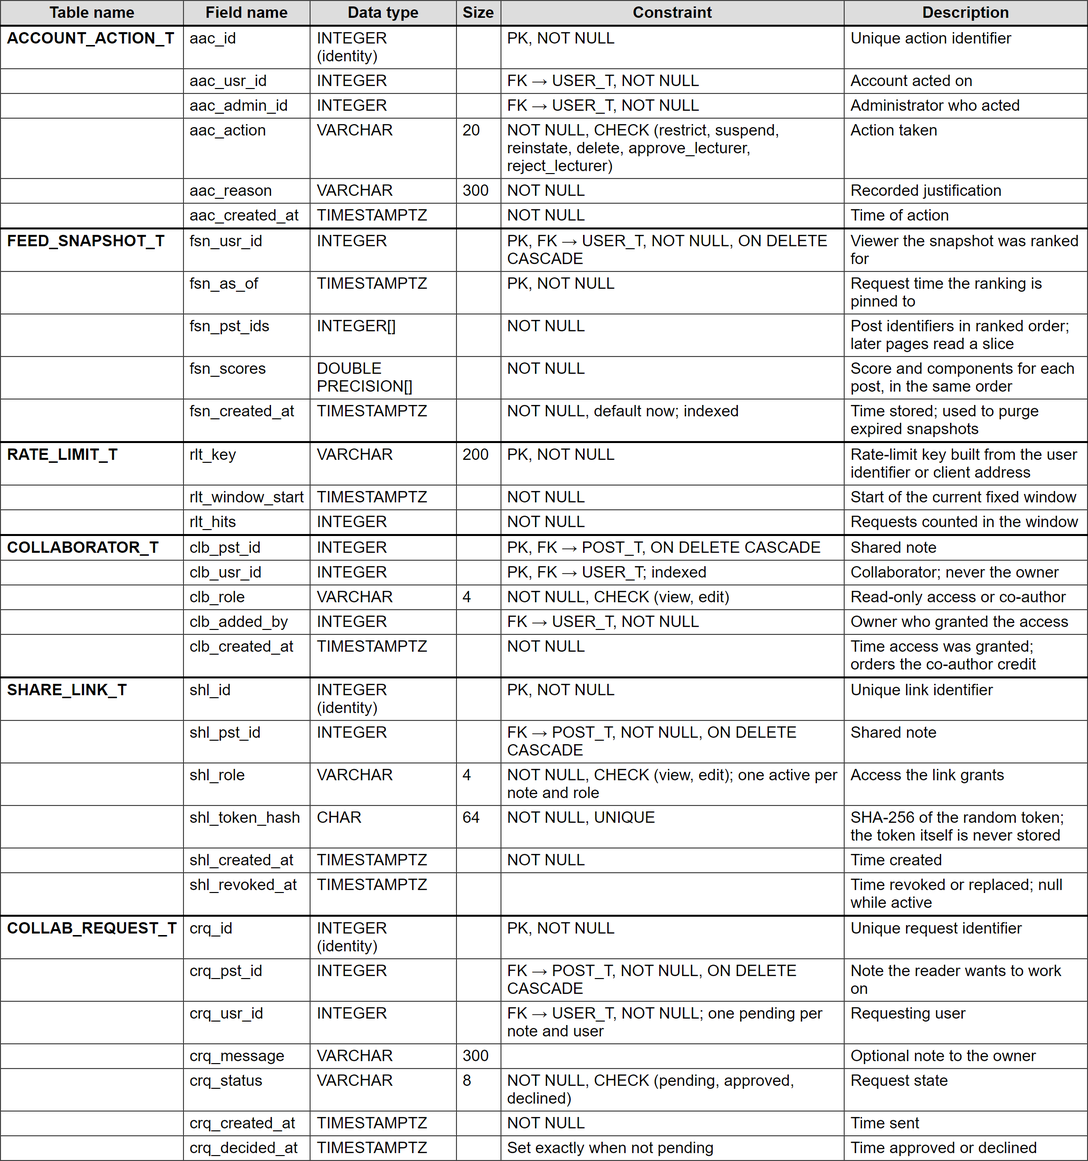
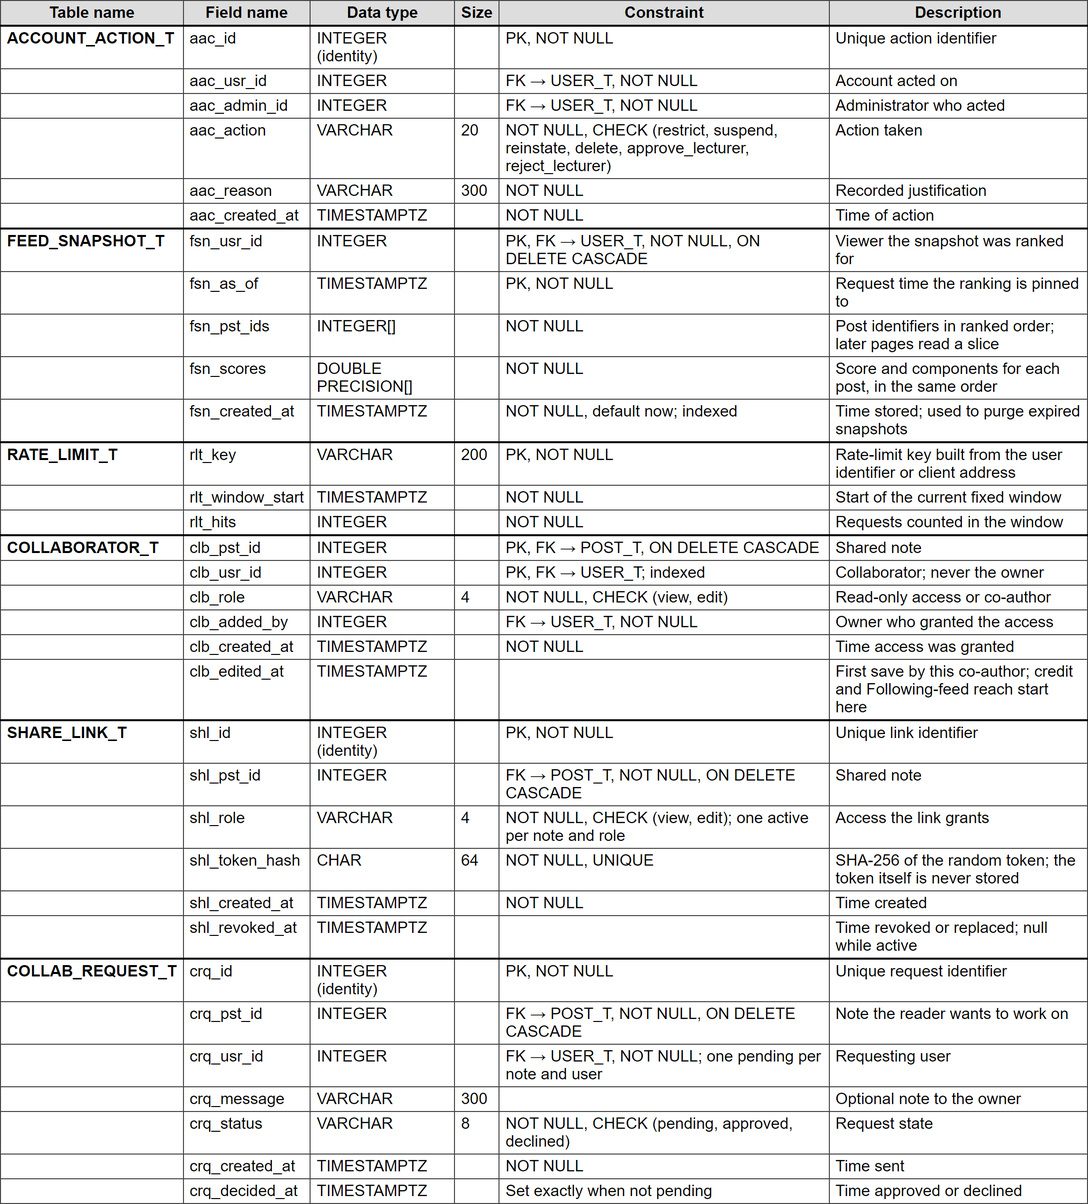
Document the R30 review fixes in D46 and Chapter 4
D46 records credit after the first edit, co-authors as authors for like and verify, share-token log redaction, myRole and the smaller fixes. Adds clb_edited_at to the schema table and ERD source, COL-TC19 to COL-TC24 and OPS-TC5, updates COL-TC15, 17 and 18, regenerates the schema images and rebuilds CHAPTER4.md.

diff --git a/docs/chapter4/CHAPTER4.md b/docs/chapter4/CHAPTER4.md
@@ -432,7 +432,7 @@
 
 	Two entities were added after the first design to meet the scale and reliability targets, and a third replaced an earlier one. FOLLOW_T replaced the original CONTACT_T, which stored a symmetric pair created by an accepted message request. A directed follow with a composite primary key and a check that a user cannot follow themselves is a single relationship from which friendship is derived at query time as a pair of follows in opposite directions, so there is no second table that could drift out of step; the migration that introduced it copied each existing contact into both directions. FEED_SNAPSHOT_T stores, for one viewer and one request time, the ranked list of post identifiers and their scores as arrays. The first page of the For You feed ranks the candidates once and writes this row, and later pages read a slice of it, so that a viewer paging through the feed sees a stable order and the ranking work is not repeated for every page; rows are short-lived and are deleted when they expire. RATE_LIMIT_T is an operational table with no foreign key to any other entity: it holds one counter per rate-limit key (a user identifier or an address) and time window, so that the request limits are enforced consistently across several server instances. It is therefore drawn in Figure 4.13 as a standalone entity.
 
-	Three entities support shared notes (R30), which were added after the first design. COLLABORATOR_T grants a user view or edit access to one note, with a composite primary key so that a user holds one role per note; the owner is never a row, because ownership is already recorded in pst_usr_id. SHARE_LINK_T stores the view and edit links an owner hands out. Only the SHA-256 hash of each random token is kept, so a copy of the database cannot be used to open shared notes, and a partial unique index allows at most one active link per note and role, which makes regenerating a link revoke the old one. COLLAB_REQUEST_T records a reader's request to collaborate until the owner approves or declines it, with a partial unique index that permits one pending request per note and user. POST_T gained three columns for the same feature: pst_content_edited_at records the last change to the title or slides of a published note, and a lecturer Super Like older than it no longer counts towards V until the lecturer confirms it again, while pst_lock_usr_id and pst_lock_expires_at hold a short soft lock so that only one collaborator edits at a time.
+	Three entities support shared notes (R30), which were added after the first design. COLLABORATOR_T grants a user view or edit access to one note, with a composite primary key so that a user holds one role per note; the owner is never a row, because ownership is already recorded in pst_usr_id. An invited editor is credited on the note, and the note reaches their followers, only once clb_edited_at records their first save, so an owner cannot attach someone's name to a note they never worked on. SHARE_LINK_T stores the view and edit links an owner hands out. Only the SHA-256 hash of each random token is kept, so a copy of the database cannot be used to open shared notes, and a partial unique index allows at most one active link per note and role, which makes regenerating a link revoke the old one. COLLAB_REQUEST_T records a reader's request to collaborate until the owner approves or declines it, with a partial unique index that permits one pending request per note and user. POST_T gained three columns for the same feature: pst_content_edited_at records the last change to the title or slides of a published note, and a lecturer Super Like older than it no longer counts towards V until the lecturer confirms it again, while pst_lock_usr_id and pst_lock_expires_at hold a short soft lock so that only one collaborator edits at a time.
 
 ## 4.3.2 Database Schema
 
@@ -564,7 +564,8 @@ The schema table is also rendered as high-resolution images for the report: `dia
 | | clb_usr_id | INTEGER | | PK, FK → USER_T; indexed | Collaborator; never the owner |
 | | clb_role | VARCHAR | 4 | NOT NULL, CHECK (view, edit) | Read-only access or co-author |
 | | clb_added_by | INTEGER | | FK → USER_T, NOT NULL | Owner who granted the access |
-| | clb_created_at | TIMESTAMPTZ | | NOT NULL | Time access was granted; orders the co-author credit |
+| | clb_created_at | TIMESTAMPTZ | | NOT NULL | Time access was granted |
+| | clb_edited_at | TIMESTAMPTZ | | | First save by this co-author; credit and Following-feed reach start here |
 | SHARE_LINK_T | shl_id | INTEGER (identity) | | PK, NOT NULL | Unique link identifier |
 | | shl_pst_id | INTEGER | | FK → POST_T, NOT NULL, ON DELETE CASCADE | Shared note |
 | | shl_role | VARCHAR | 4 | NOT NULL, CHECK (view, edit); one active per note and role | Access the link grants |
@@ -1014,10 +1015,16 @@ The schema table is also rendered as high-resolution images for the report: `dia
 | COL-TC12 | Requests to collaborate | stranger requests with a message, then again; owner and editor request; 301-character message; viewer requests; stranger requests on a draft; owner approves, declines, re-decides, sends "maybe" and an unknown id | 201, 409, 400, 409, 400, 201, 404; access lists both pending; approve gives role edit; re-decide 409; bad decision 400; decline 200; unknown 404; no pending left | | |
 | COL-TC13 | Shared with me list | editor of one note and viewer of another; a stranger; a guest | Both notes with roles edit and view and the owner; stranger empty list; guest 401 | | |
 | COL-TC14 | Soft lock and expiry | editor locks and renews; owner locks and PUTs; editor PUTs; viewer, stranger, guest lock; lock expired by SQL; releases; editor removed while holding it | 200, 200; owner 423 with lockedBy Editor and PUT 423; editor PUT 200; 403, 404, 401; owner takes the expired lock; release by a non-holder has no effect; removing the editor frees the lock | | |
-| COL-TC15 | V removed by a slide edit until re-confirmed | published note Super Liked by an approved lecturer; editor replaces the slides; lecturer POSTs verify again | After the edit verified false, verifiedBy null, editedSinceVerification true and V = 0 in the ranking candidates; after re-confirm 200, verified true and V = 1 | | |
+| COL-TC15 | V removed by a slide edit until re-confirmed | published note Super Liked by an approved lecturer; editor replaces the slides; lecturer POSTs verify again | After the edit verified false, verifiedBy null, editedSinceVerification true and V = 0 in the ranking candidates; after re-confirm 200 with the new remark, verified true and V = 1 | | |
 | COL-TC16 | Hashtag edits keep V; publish time never moves | verified published note: hashtag-only edit, then a title edit; a draft edited by its editor | Hashtags changed and still verified; title edit removes V; pst_published_at unchanged; the draft keeps null pst_content_edited_at and pst_published_at | | |
-| COL-TC17 | Following feed includes co-authored notes | a follower of the editor; a follower of a view collaborator; a contacts-only note co-authored by the followed editor, before and after the follower befriends its owner | The editor's follower sees the note; the viewer's follower sees nothing; the contacts-only note appears only after the friendship | | |
-| COL-TC18 | Co-authors credited in note payloads | published note with an editor and a viewer; GET as a guest and in the feed; editor then suspended | coauthors lists only the editor (id, display name) in detail and feed; empty after the suspension | | |
+| COL-TC17 | Following feed reaches co-authors' followers after their first edit | a follower of an invited editor, before and after the editor saves; a follower of a view collaborator; the fan also follows the owner; a contacts-only note co-authored by a followed editor, before and after the fan befriends its owner | Nothing before the edit, the note after it; the viewer's follower sees nothing; the note is listed once; the contacts-only note appears only after the friendship | | |
+| COL-TC18 | Co-author credit and the viewer's role | published note with an invited editor and a viewer; GET as a guest before and after the editor's first save, in the feed, as each user; editor then suspended | coauthors empty before the save, then only the editor (id, display name) in detail and feed; myRole owner, edit, view, null, null in the detail and absent from the feed; empty after the suspension | | |
+| COL-TC19 | Co-author cannot like or Super Like the note | an approved lecturer who is an edit collaborator likes and verifies the note | 400 "You cannot like your own note"; 409 "Cannot verify own note" | | |
+| COL-TC20 | Request id from another note (IDOR) | owner of note A decides a pending request made on note B | 404; the request stays pending and A gains no collaborator | | |
+| COL-TC21 | V kept without a content change | verified note with formatted slides, a co-author holding the lock; then a hashtag-only save that resends the unchanged slides | verified true and editedSinceVerification false before and after; pst_content_edited_at stays null | | |
+| COL-TC22 | Downgrade frees the lock; role re-checked in the save | editor holds the lock and is changed to view; replaceNote called for the former editor and a stranger | Owner can take the lock; both saves return forbidden | | |
+| COL-TC23 | Restricted author blocks co-author edits | author restricted; editor PUT and lock; stranger joins an edit link; editor GET; stranger GET of the link | 403, 403, 403; reading 200 and 200 | | |
+| COL-TC24 | Concurrent link regeneration | five simultaneous POST /links {role: view} | All 201; exactly one active link | | |
 
 *Table 4.34: Operations module test cases (OPS). OPS covers non-functional checks (health, request tracing, log redaction), so it has fewer than 10 cases by design.*
 
@@ -1027,6 +1034,7 @@ The schema table is also rendered as high-resolution images for the report: `dia
 | OPS-TC2 | Health check with the database unreachable | GET /api/health while the database query fails | 503 with status degraded, db down | | |
 | OPS-TC3 | Request id reused or replaced | no X-Request-Id; "abc-123"; "bad id<script>" | Response carries a generated UUID; "abc-123" echoed; a new UUID instead of the unsafe value | | |
 | OPS-TC4 | Logger redaction options hide set-cookie and password fields | a pino logger built with the app's redaction options logs a response with a set-cookie parp_token header and a body with a password | Log output shows [redacted] and contains neither the parp_token value nor the password | | |
+| OPS-TC5 | Share-link tokens kept out of the request log | paths /api/share/AbC_-123?x=1, /api/notes/5?cursor=abc, no URL | /api/share/[token]; /api/notes/5; undefined | | |
 
 *Table 4.35: Client module test cases (CLI). CLI covers browser-side logic (API wrapper, auth state, route guards, fetch hook); the tests run against mocked fetch, so no server is needed.*
 

diff --git a/docs/chapter4/4.5_test_cases.md b/docs/chapter4/4.5_test_cases.md
@@ -255,10 +255,16 @@
 | COL-TC12 | Requests to collaborate | stranger requests with a message, then again; owner and editor request; 301-character message; viewer requests; stranger requests on a draft; owner approves, declines, re-decides, sends "maybe" and an unknown id | 201, 409, 400, 409, 400, 201, 404; access lists both pending; approve gives role edit; re-decide 409; bad decision 400; decline 200; unknown 404; no pending left | | |
 | COL-TC13 | Shared with me list | editor of one note and viewer of another; a stranger; a guest | Both notes with roles edit and view and the owner; stranger empty list; guest 401 | | |
 | COL-TC14 | Soft lock and expiry | editor locks and renews; owner locks and PUTs; editor PUTs; viewer, stranger, guest lock; lock expired by SQL; releases; editor removed while holding it | 200, 200; owner 423 with lockedBy Editor and PUT 423; editor PUT 200; 403, 404, 401; owner takes the expired lock; release by a non-holder has no effect; removing the editor frees the lock | | |
-| COL-TC15 | V removed by a slide edit until re-confirmed | published note Super Liked by an approved lecturer; editor replaces the slides; lecturer POSTs verify again | After the edit verified false, verifiedBy null, editedSinceVerification true and V = 0 in the ranking candidates; after re-confirm 200, verified true and V = 1 | | |
+| COL-TC15 | V removed by a slide edit until re-confirmed | published note Super Liked by an approved lecturer; editor replaces the slides; lecturer POSTs verify again | After the edit verified false, verifiedBy null, editedSinceVerification true and V = 0 in the ranking candidates; after re-confirm 200 with the new remark, verified true and V = 1 | | |
 | COL-TC16 | Hashtag edits keep V; publish time never moves | verified published note: hashtag-only edit, then a title edit; a draft edited by its editor | Hashtags changed and still verified; title edit removes V; pst_published_at unchanged; the draft keeps null pst_content_edited_at and pst_published_at | | |
-| COL-TC17 | Following feed includes co-authored notes | a follower of the editor; a follower of a view collaborator; a contacts-only note co-authored by the followed editor, before and after the follower befriends its owner | The editor's follower sees the note; the viewer's follower sees nothing; the contacts-only note appears only after the friendship | | |
-| COL-TC18 | Co-authors credited in note payloads | published note with an editor and a viewer; GET as a guest and in the feed; editor then suspended | coauthors lists only the editor (id, display name) in detail and feed; empty after the suspension | | |
+| COL-TC17 | Following feed reaches co-authors' followers after their first edit | a follower of an invited editor, before and after the editor saves; a follower of a view collaborator; the fan also follows the owner; a contacts-only note co-authored by a followed editor, before and after the fan befriends its owner | Nothing before the edit, the note after it; the viewer's follower sees nothing; the note is listed once; the contacts-only note appears only after the friendship | | |
+| COL-TC18 | Co-author credit and the viewer's role | published note with an invited editor and a viewer; GET as a guest before and after the editor's first save, in the feed, as each user; editor then suspended | coauthors empty before the save, then only the editor (id, display name) in detail and feed; myRole owner, edit, view, null, null in the detail and absent from the feed; empty after the suspension | | |
+| COL-TC19 | Co-author cannot like or Super Like the note | an approved lecturer who is an edit collaborator likes and verifies the note | 400 "You cannot like your own note"; 409 "Cannot verify own note" | | |
+| COL-TC20 | Request id from another note (IDOR) | owner of note A decides a pending request made on note B | 404; the request stays pending and A gains no collaborator | | |
+| COL-TC21 | V kept without a content change | verified note with formatted slides, a co-author holding the lock; then a hashtag-only save that resends the unchanged slides | verified true and editedSinceVerification false before and after; pst_content_edited_at stays null | | |
+| COL-TC22 | Downgrade frees the lock; role re-checked in the save | editor holds the lock and is changed to view; replaceNote called for the former editor and a stranger | Owner can take the lock; both saves return forbidden | | |
+| COL-TC23 | Restricted author blocks co-author edits | author restricted; editor PUT and lock; stranger joins an edit link; editor GET; stranger GET of the link | 403, 403, 403; reading 200 and 200 | | |
+| COL-TC24 | Concurrent link regeneration | five simultaneous POST /links {role: view} | All 201; exactly one active link | | |
 
 *Table 4.x: Operations module test cases (OPS). OPS covers non-functional checks (health, request tracing, log redaction), so it has fewer than 10 cases by design.*
 
@@ -268,6 +274,7 @@
 | OPS-TC2 | Health check with the database unreachable | GET /api/health while the database query fails | 503 with status degraded, db down | | |
 | OPS-TC3 | Request id reused or replaced | no X-Request-Id; "abc-123"; "bad id<script>" | Response carries a generated UUID; "abc-123" echoed; a new UUID instead of the unsafe value | | |
 | OPS-TC4 | Logger redaction options hide set-cookie and password fields | a pino logger built with the app's redaction options logs a response with a set-cookie parp_token header and a body with a password | Log output shows [redacted] and contains neither the parp_token value nor the password | | |
+| OPS-TC5 | Share-link tokens kept out of the request log | paths /api/share/AbC_-123?x=1, /api/notes/5?cursor=abc, no URL | /api/share/[token]; /api/notes/5; undefined | | |
 
 *Table 4.x: Client module test cases (CLI). CLI covers browser-side logic (API wrapper, auth state, route guards, fetch hook); the tests run against mocked fetch, so no server is needed.*
 

diff --git a/docs/chapter4/4.3_database_design.md b/docs/chapter4/4.3_database_design.md
@@ -14,7 +14,7 @@
 
 	Two entities were added after the first design to meet the scale and reliability targets, and a third replaced an earlier one. FOLLOW_T replaced the original CONTACT_T, which stored a symmetric pair created by an accepted message request. A directed follow with a composite primary key and a check that a user cannot follow themselves is a single relationship from which friendship is derived at query time as a pair of follows in opposite directions, so there is no second table that could drift out of step; the migration that introduced it copied each existing contact into both directions. FEED_SNAPSHOT_T stores, for one viewer and one request time, the ranked list of post identifiers and their scores as arrays. The first page of the For You feed ranks the candidates once and writes this row, and later pages read a slice of it, so that a viewer paging through the feed sees a stable order and the ranking work is not repeated for every page; rows are short-lived and are deleted when they expire. RATE_LIMIT_T is an operational table with no foreign key to any other entity: it holds one counter per rate-limit key (a user identifier or an address) and time window, so that the request limits are enforced consistently across several server instances. It is therefore drawn in Figure 4.x as a standalone entity.
 
-	Three entities support shared notes (R30), which were added after the first design. COLLABORATOR_T grants a user view or edit access to one note, with a composite primary key so that a user holds one role per note; the owner is never a row, because ownership is already recorded in pst_usr_id. SHARE_LINK_T stores the view and edit links an owner hands out. Only the SHA-256 hash of each random token is kept, so a copy of the database cannot be used to open shared notes, and a partial unique index allows at most one active link per note and role, which makes regenerating a link revoke the old one. COLLAB_REQUEST_T records a reader's request to collaborate until the owner approves or declines it, with a partial unique index that permits one pending request per note and user. POST_T gained three columns for the same feature: pst_content_edited_at records the last change to the title or slides of a published note, and a lecturer Super Like older than it no longer counts towards V until the lecturer confirms it again, while pst_lock_usr_id and pst_lock_expires_at hold a short soft lock so that only one collaborator edits at a time.
+	Three entities support shared notes (R30), which were added after the first design. COLLABORATOR_T grants a user view or edit access to one note, with a composite primary key so that a user holds one role per note; the owner is never a row, because ownership is already recorded in pst_usr_id. An invited editor is credited on the note, and the note reaches their followers, only once clb_edited_at records their first save, so an owner cannot attach someone's name to a note they never worked on. SHARE_LINK_T stores the view and edit links an owner hands out. Only the SHA-256 hash of each random token is kept, so a copy of the database cannot be used to open shared notes, and a partial unique index allows at most one active link per note and role, which makes regenerating a link revoke the old one. COLLAB_REQUEST_T records a reader's request to collaborate until the owner approves or declines it, with a partial unique index that permits one pending request per note and user. POST_T gained three columns for the same feature: pst_content_edited_at records the last change to the title or slides of a published note, and a lecturer Super Like older than it no longer counts towards V until the lecturer confirms it again, while pst_lock_usr_id and pst_lock_expires_at hold a short soft lock so that only one collaborator edits at a time.
 
 ## 4.3.2 Database Schema
 
@@ -146,7 +146,8 @@ The schema table is also rendered as high-resolution images for the report: `dia
 | | clb_usr_id | INTEGER | | PK, FK → USER_T; indexed | Collaborator; never the owner |
 | | clb_role | VARCHAR | 4 | NOT NULL, CHECK (view, edit) | Read-only access or co-author |
 | | clb_added_by | INTEGER | | FK → USER_T, NOT NULL | Owner who granted the access |
-| | clb_created_at | TIMESTAMPTZ | | NOT NULL | Time access was granted; orders the co-author credit |
+| | clb_created_at | TIMESTAMPTZ | | NOT NULL | Time access was granted |
+| | clb_edited_at | TIMESTAMPTZ | | | First save by this co-author; credit and Following-feed reach start here |
 | SHARE_LINK_T | shl_id | INTEGER (identity) | | PK, NOT NULL | Unique link identifier |
 | | shl_pst_id | INTEGER | | FK → POST_T, NOT NULL, ON DELETE CASCADE | Shared note |
 | | shl_role | VARCHAR | 4 | NOT NULL, CHECK (view, edit); one active per note and role | Access the link grants |

diff --git a/docs/DECISIONS.md b/docs/DECISIONS.md
@@ -808,6 +808,19 @@ Reversibility: **Easy** (edit text/config), **Medium** (redo a diagram or migrat
   is nothing to guard. Removing a collaborator also releases their lock. The lock TTL (120 s), token size and request
   message limit live in `collaboration/config.ts`, not the ranking config. R8 notifications will read the pending
   requests and `editedSinceVerification`; there is no separate list endpoint for lecturers yet.
-- **Tests:** COL-TC1 to COL-TC18.
+- **Review fixes (same day):**
+  - Credit only after the first edit: `clb_edited_at` is set on an editor's first successful save. `coauthors` and the
+    Following-feed reach use only edit collaborators with that stamp, so an owner cannot put someone's name on a note or
+    push it to their followers by inviting them. Access itself is unchanged: an invited editor can read and edit at once.
+  - Edit collaborators count as authors for like (400) and Super Like (409), so a co-author cannot raise E or V of their
+    own work. View collaborators can still like.
+  - The request log replaces `/api/share/<token>` with `/api/share/[token]` (`logPath`), since a token grants access.
+  - `GET /api/notes/:id` (and the share-link GET) add `myRole` (`owner`, `edit`, `view` or null) for the editor UI; the
+    feed does not carry it.
+  - Co-authors may edit, lock or join an edit link only while the author is `active` (UC21); reading is unchanged.
+    `replaceNote` re-checks the editor's role under `FOR UPDATE`, link regeneration locks the note row so concurrent
+    requests cannot break the one-active-link index, a downgrade to view frees that user's lock, and a re-confirmation
+    updates the remark when one is sent.
+- **Tests:** COL-TC1 to COL-TC24, OPS-TC5.
 - **Reversibility:** Medium. The migration has a down step; dropping the feature means reverting the PUT role check,
   `VALID_VERIFICATIONS` and the Following-feed clause.

diff --git a/server/src/features/collaboration/README.md b/server/src/features/collaboration/README.md
@@ -13,11 +13,13 @@ collaborator read rule, `coauthors`, the edited-since-verification rule) live in
 | `POST /api/notes/:id/links` | owner | `{role}`; 201 `{role, token, url}`; revokes the previous link of that role; only the SHA-256 is stored |
 | `DELETE /api/notes/:id/links/:role` | owner | 204 |
 | `GET /api/share/:token` | anyone, IP-limited | view link: `{role: 'view', note}` for guests too; edit link: 401 for guests, else `{role: 'edit', note}`; 404 bad, revoked, hidden or suspended |
-| `POST /api/share/:token` | signed-in, active | joins an edit link as an edit collaborator; 400 for a view link |
+| `POST /api/share/:token` | signed-in, active | joins an edit link as an edit collaborator; 400 for a view link; 403 while the author is not active |
 | `POST /api/notes/:id/requests` | anyone who can read the note, not owner or editor | `{message?}` (max 300); 201; 409 duplicate pending or already an editor |
 | `POST /api/notes/:id/requests/:requestId` | owner | `{decision: 'approve'|'decline', role?}` (role default edit); 409 already decided |
 | `GET /api/notes/shared` | signed-in | keyset page of notes the user collaborates on, with role and owner |
 | `POST` / `DELETE /api/notes/:id/lock` | owner, editor | take or renew for `lockTtlSeconds` (120 s), 423 with `lockedBy` when someone else holds it; release |
 
-`PUT /api/notes/:id` accepts edit collaborators (content only, `baseUpdatedAt` required, 409 stale, 423 locked).
+`PUT /api/notes/:id` accepts edit collaborators (content only, `baseUpdatedAt` required, 409 stale, 423 locked, 403 while
+the author is not active). An editor's first save sets `clb_edited_at`; only then are they credited in `coauthors` and
+reach their followers' Following feed. `GET /api/notes/:id` adds `myRole`. Co-authors count as authors for like and verify.
 Test table: `COL-TC*` in `docs/chapter4/4.5_test_cases.md`.
